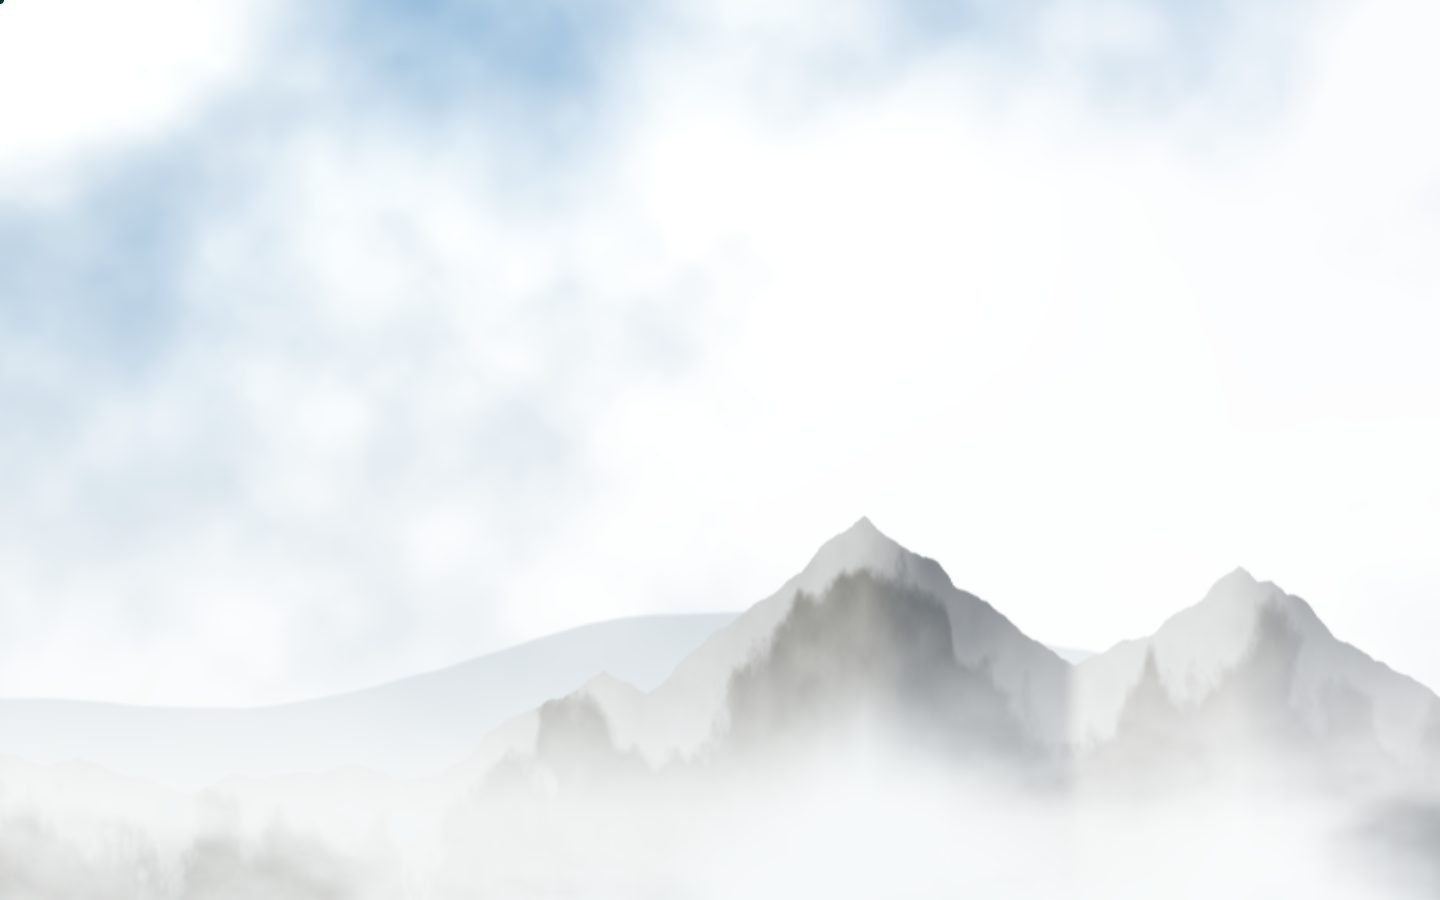
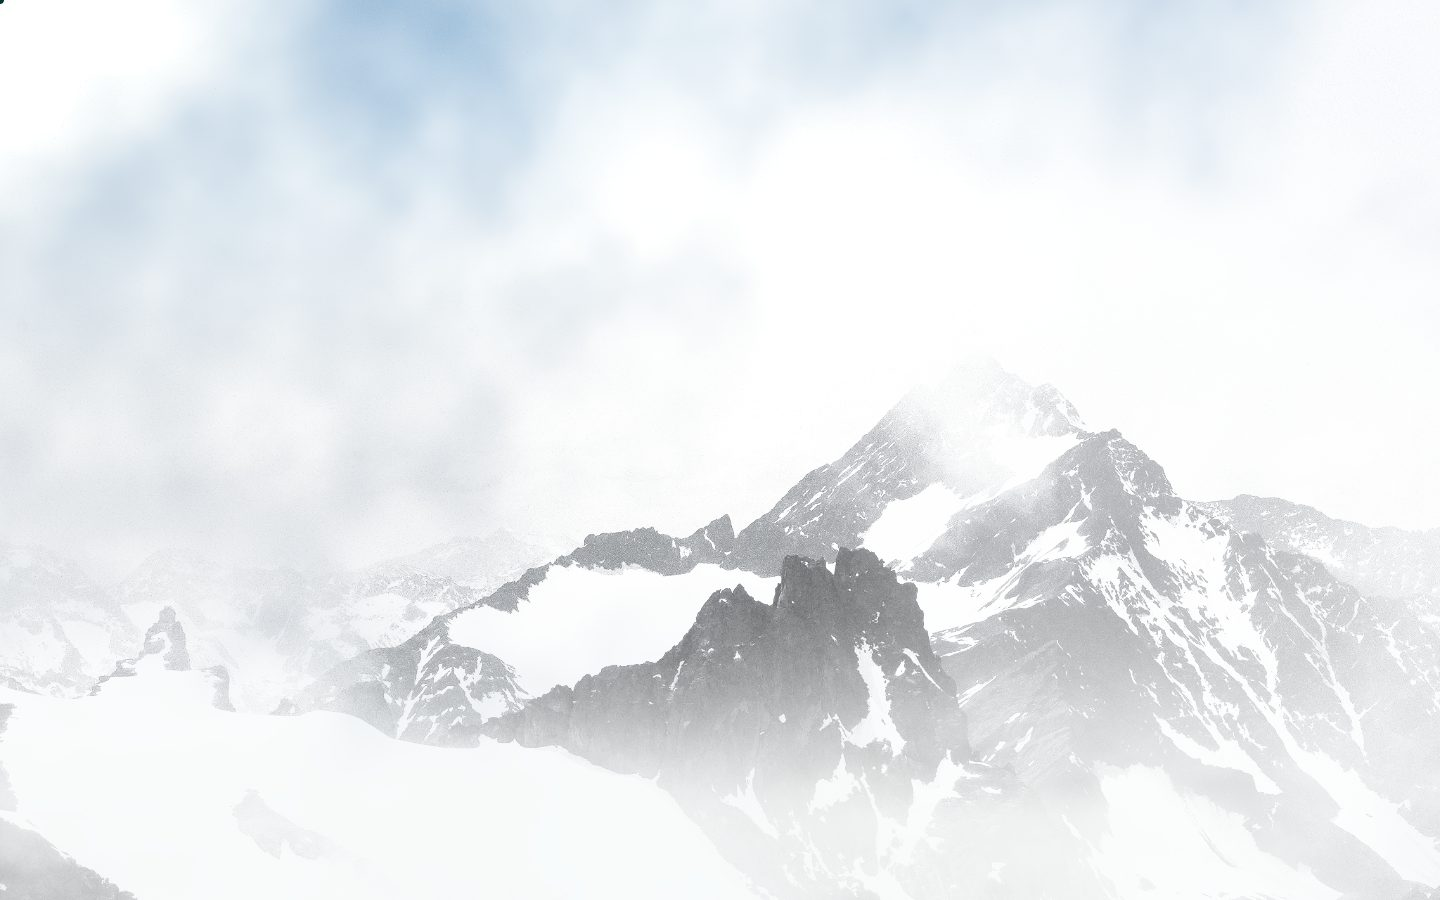
Hero: high-resolution photographic peaks under the existing fog; full-res on phones

diff --git a/js/sky.js b/js/sky.js
@@ -1,8 +1,9 @@
-// Live sky for the hero: drifting volumetric-looking clouds over a misty ridge (Khasi Hills / Shillong Peak mood).
+// Live sky for the hero: drifting volumetric-looking clouds over a high-resolution photo of misty peaks.
 // Raw WebGL (no library) so it costs nothing extra to load. Rendered at reduced resolution and paused when hidden.
 const FRAG = `
 precision highp float;
 uniform vec2 uRes; uniform float uT; uniform vec2 uM; uniform float uWhite;
+uniform sampler2D uPhoto; uniform float uHas; uniform vec4 uFit;
 float h31(vec3 p){p=fract(p*0.3183099+.1);p*=17.;return fract(p.x*p.y*p.z*(p.x+p.y+p.z));}
 float n3(vec3 x){vec3 i=floor(x),f=fract(x);f=f*f*(3.-2.*f);
  return mix(mix(mix(h31(i),h31(i+vec3(1,0,0)),f.x),mix(h31(i+vec3(0,1,0)),h31(i+vec3(1,1,0)),f.x),f.y),
@@ -27,7 +28,9 @@ void main(){
   float l1 = cloud(q1 + vec2(-.06,.10), t*.012, .30);
   vec3 cc1 = mix(vec3(.74,.78,.82), vec3(1.), clamp(c1-l1*.55+.55,0.,1.));
   vec3 col = mix(sky, cc1, c1*.96);
-  // peaks rising through the clouds, bottom right (Shillong Peak ridge, stylised): sharp summits, rocky faces, snow streaks
+  vec3 colSky = col;
+  if (uHas < .999) {
+  // fallback until the photo loads: stylised summits, rocky faces, snow streaks
   float x = uv.x + uM.x*.006;
   float pk1 = .43 - abs(x-.60)*1.25;   // main summit
   float pk2 = .37 - abs(x-.86)*1.05;   // second summit
@@ -52,6 +55,20 @@ void main(){
   rock = mix(rock, vec3(.95,.96,.97), clamp(snow,0.,1.)*.62);
   rock = mix(rock, vec3(.88,.91,.93), smoothstep(ridge-.14, ridge-.32, uv.y)); // base dissolves into haze
   col = mix(col, rock, mR);
+  }
+  if (uHas > .001) {
+    // High-resolution photo of misty peaks (cover-fit, mirrored so the summits sit right of the headline)
+    vec2 iu = vec2(uFit.z + uv.x*uFit.x, uFit.w + uv.y*uFit.y) + uM*vec2(.004,.003);
+    iu.x = 1. - iu.x;
+    vec3 ph = texture2D(uPhoto, iu).rgb;
+    float lum = dot(ph, vec3(.299,.587,.114));
+    ph *= vec3(.95,.985,1.03);                                   // cool it into the site palette
+    float skyMask = smoothstep(.62,.88,lum) * smoothstep(.42,.9,uv.y);
+    vec3 base = mix(ph, sky, skyMask*.92);                      // the photo's pale sky takes on the blue
+    float bright = smoothstep(.45,.85,lum);
+    vec3 colP = mix(base, cc1, c1*.96*mix(.22, 1., bright));   // same high clouds: over sky/snow, thin over rock
+    col = mix(col, colP, uHas);
+  }
   // low fog layer drifting faster, in front of the ridge foot
   vec2 q2 = p*vec2(1.6,3.2) + vec2(t*.022, 0.) + uM*.06;
   float c2 = cloud(q2, t*.02+4., .34) * smoothstep(.36,.08,uv.y);
@@ -77,12 +94,36 @@ export function createSky(canvas) {
   gl.bufferData(gl.ARRAY_BUFFER, new Float32Array([-1, -1, 3, -1, -1, 3]), gl.STATIC_DRAW);
   const loc = gl.getAttribLocation(prog, 'a'); gl.enableVertexAttribArray(loc); gl.vertexAttribPointer(loc, 2, gl.FLOAT, false, 0, 0);
   const U = (n) => gl.getUniformLocation(prog, n);
-  const uRes = U('uRes'), uT = U('uT'), uM = U('uM'), uWhite = U('uWhite');
+  const uRes = U('uRes'), uT = U('uT'), uM = U('uM'), uWhite = U('uWhite'), uPhoto = U('uPhoto'), uHas = U('uHas'), uFit = U('uFit');
+  // background photo (loaded async; the procedural ridge shows until it arrives, then cross-fades)
+  const photo = { tex: null, w: 1, h: 1, has: 0 };
+  (() => {
+    const img = new Image(); img.decoding = 'async';
+    img.onload = () => {
+      const tex = gl.createTexture(); gl.bindTexture(gl.TEXTURE_2D, tex);
+      gl.pixelStorei(gl.UNPACK_FLIP_Y_WEBGL, true);
+      gl.texImage2D(gl.TEXTURE_2D, 0, gl.RGB, gl.RGB, gl.UNSIGNED_BYTE, img);
+      gl.texParameteri(gl.TEXTURE_2D, gl.TEXTURE_MIN_FILTER, gl.LINEAR);
+      gl.texParameteri(gl.TEXTURE_2D, gl.TEXTURE_MAG_FILTER, gl.LINEAR);
+      gl.texParameteri(gl.TEXTURE_2D, gl.TEXTURE_WRAP_S, gl.CLAMP_TO_EDGE);
+      gl.texParameteri(gl.TEXTURE_2D, gl.TEXTURE_WRAP_T, gl.CLAMP_TO_EDGE);
+      gl.uniform1i(uPhoto, 0);
+      photo.tex = tex; photo.w = img.naturalWidth; photo.h = img.naturalHeight; photo.t0 = performance.now();
+    };
+    img.src = 'assets/img/peaks.webp';
+  })();
+  const fit = () => {
+    const asp = canvas.clientWidth / Math.max(1, canvas.clientHeight), ia = photo.w / photo.h, cl = (v, a, b) => Math.min(b, Math.max(a, v));
+    let kx, ky, ox, oy;
+    if (asp >= ia) { const z = .8; kx = z; ky = z * ia / asp; ox = 0; oy = cl(.64 - .6 * ky, 0, 1 - ky); }
+    else { const z = 1; ky = z; kx = z * asp / ia; ox = cl(.62 - .55 * kx, 0, 1 - kx); oy = cl(.64 - .62 * ky, 0, 1 - ky); }
+    return [kx, ky, ox, oy];
+  };
 
   const coarse = matchMedia('(pointer: coarse)').matches;
   // Full native resolution on desktop (capped at 1.5x DPR); lowered automatically only if frames run slow
-  let scale = coarse ? .6 : Math.min(devicePixelRatio || 1, 1.5);
-  const minScale = coarse ? .45 : .6; let slow = 0, lastT = 0;
+  let scale = coarse ? Math.min(devicePixelRatio || 1, 2) : Math.min(devicePixelRatio || 1, 1.5);
+  const minScale = coarse ? .75 : .6; let slow = 0, lastT = 0;
   const state = { white: 0, mx: 0, my: 0, tx: 0, ty: 0, running: false, active: true, t0: performance.now(), raf: 0 };
   const resize = () => {
     const w = Math.max(2, Math.round(canvas.clientWidth * scale)), h = Math.max(2, Math.round(canvas.clientHeight * scale));
@@ -104,6 +145,8 @@ export function createSky(canvas) {
     gl.uniform1f(uT, (performance.now() - state.t0) / 1000 + 40);
     gl.uniform2f(uM, state.mx, -state.my);
     gl.uniform1f(uWhite, state.white);
+    if (photo.tex) { photo.has = Math.min(1, (performance.now() - photo.t0) / 1200); gl.uniform4fv(uFit, fit()); }
+    gl.uniform1f(uHas, photo.has);
     gl.drawArrays(gl.TRIANGLES, 0, 3);
   };
   const toggle = () => {

diff --git a/index.html b/index.html
@@ -190,7 +190,7 @@
       <span>© 2026 B.T. Lyngdoh · Concept demo</span>
       <span class="foot__right"><a href="#book">Book consultation</a><button class="motion-toggle" type="button" aria-pressed="true">Motion: On</button></span>
     </div>
-    <p class="foot__credits">Concept demo for Dr. Bernard T. Lyngdoh. Details from public listings, to be confirmed by the clinic. Hero, globe and aerial are original renders; treatment photos: Julius Toltesi, silverkblack, silverkblack and CDC on Unsplash. Map data: Natural Earth. Typeface: Satoshi (Fontshare). This site does not give medical advice.</p>
+    <p class="foot__credits">Concept demo for Dr. Bernard T. Lyngdoh. Details from public listings, to be confirmed by the clinic. Clouds, globe and aerial are original renders; hero peaks photo: delafthi; treatment photos: Julius Toltesi, silverkblack and CDC, all on Unsplash. Map data: Natural Earth. Typeface: Satoshi (Fontshare). This site does not give medical advice.</p>
   </footer>
 
   <!-- Floating UI -->

diff --git a/css/style.css b/css/style.css
@@ -383,3 +383,6 @@ html.reduced .towns li { color: var(--ink); }
 .vcard { background: #dfe3e2; }
 .vcard__img { width: 100%; height: 100%; object-fit: cover; animation: kenburns 18s ease-in-out infinite alternate; }
 @keyframes kenburns { from { scale: 1.02; translate: 0 0; } to { scale: 1.1; translate: -1.5% -1%; } }
+
+/* hero text stays legible over the photo detail */
+.hero__sub, .hero__tag, .hero__explore { text-shadow: 0 0 14px rgba(245,245,243,.95), 0 0 4px rgba(245,245,243,.9); }

diff --git a/README.md b/README.md
@@ -22,7 +22,7 @@ Then open http://localhost:5180. It's also published on GitHub Pages from `main`
 | Reference element | Replacement | How it was made |
 |---|---|---|
 | SkyClinics wordmark + triangle mark | **B.T. LYNGDOH** wordmark + three stacked rounded bars (vertebrae), the last in signboard red | Drawn as SVG by hand |
-| WebGL sky over Albanian peaks | Live WebGL clouds over a stylised Shillong-Peak ridge | `js/sky.js` fragment shader (fbm clouds, ridged summits, fog) |
+| WebGL sky over photographic peaks | Live WebGL clouds and fog over a high-resolution photo of misty peaks (mood image, not Shillong; Swiss Alps near Titlis) | `js/sky.js` shader composites the photo under the procedural cloud layers. Photo by delafthi, [Unsplash](https://unsplash.com/photos/a-snowy-mountain-with-clouds-oBuOT7fs2vU) (Unsplash License) |
 | Drone footage of the clinic | Aerial drift over misty pine ridges | WebGL render → H.264 (`sky/render`) |
 | Implantology footage | Spine model with a herniated (red) disc | Photo by Julius Toltesi, [Unsplash](https://unsplash.com/photos/close-up-of-a-human-spine-model-with-red-disc-5thrMBqG5E0) (Unsplash License) |
 | Full-arch footage | Two doctors reading brain MRI films | Photo by silverkblack, [Unsplash](https://unsplash.com/photos/two-doctors-examining-a-brain-mri-scan-together-AB0r9z7eRYg) (Unsplash License) |
